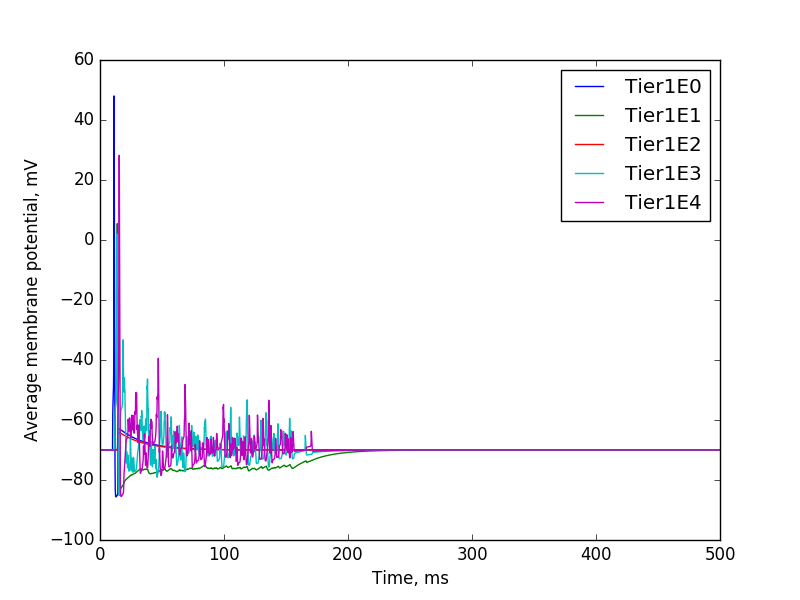
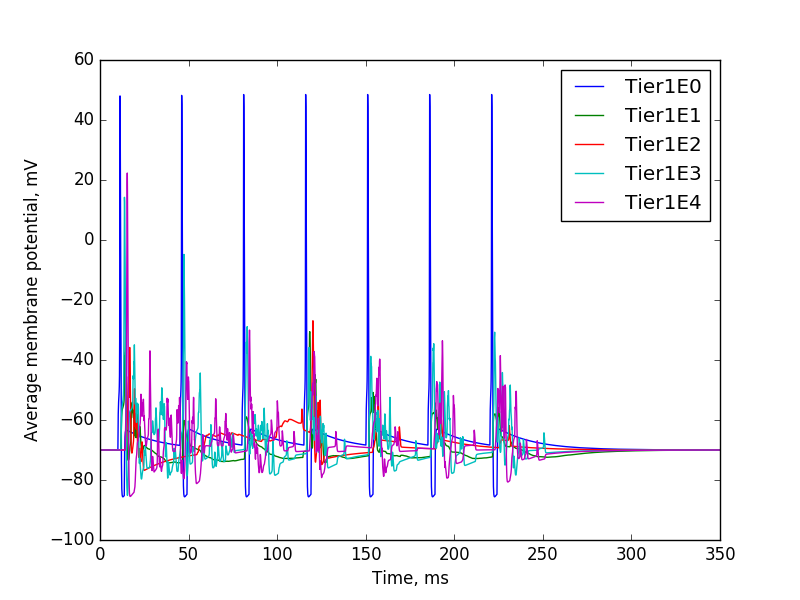
set multilevel response on moto

diff --git a/the_second_level/src/topology.py b/the_second_level/src/topology.py
@@ -48,7 +48,7 @@ class Tier:
             syn_spec={
                 'model': 'static_synapse',
                 'delay': {'distribution': 'normal', 'mu': 0.5, 'sigma': 0.1},
-                'weight': {'distribution': 'normal', 'mu': 50., 'sigma': 5.}},
+                'weight': {'distribution': 'normal', 'mu': 45., 'sigma': 5.}},
             conn_spec={
                 'rule': 'fixed_indegree',
                 'indegree': 5
@@ -60,7 +60,7 @@ class Tier:
             syn_spec={
                 'model': 'static_synapse',
                 'delay': {'distribution': 'normal', 'mu': 0.5, 'sigma': 0.1},
-                'weight': {'distribution': 'normal', 'mu': 20., 'sigma': 4.}},
+                'weight': {'distribution': 'normal', 'mu': 85., 'sigma': 4.}},
             conn_spec={
                 'rule': 'fixed_indegree',
                 'indegree': 5
@@ -72,9 +72,10 @@ class Tier:
             syn_spec={
                 'model': 'static_synapse',
                 'delay': {'distribution': 'normal', 'mu': 0.5, 'sigma': 0.1},
-                'weight': {'distribution': 'normal', 'mu': 15., 'sigma': 4.}},
+                'weight': {'distribution': 'normal', 'mu': 85., 'sigma': 4.}},
             conn_spec={
-                'rule': 'all_to_all'
+                'rule': 'fixed_indegree',
+                'indegree': 5
             })
         # e0 to e3
         nest.Connect(
@@ -119,9 +120,22 @@ class Tier:
             syn_spec={
                 'model': 'static_synapse',
                 'delay': {'distribution': 'normal', 'mu': 0.5, 'sigma': 0.1},
-                'weight': {'distribution': 'normal', 'mu': -75., 'sigma': 2.}},
+                'weight': {'distribution': 'normal', 'mu': -60., 'sigma': 2.}},
             conn_spec={
-                'rule': 'all_to_all'
+                'rule': 'fixed_indegree',
+                'indegree': 5
+            })
+        # e4 to e1
+        nest.Connect(
+            pre=self.e4,
+            post=self.e1,
+            syn_spec={
+                'model': 'static_synapse',
+                'delay': {'distribution': 'normal', 'mu': 15., 'sigma': 4.},
+                'weight': {'distribution': 'normal', 'mu': -50., 'sigma': 2.}},
+            conn_spec={
+                'rule': 'fixed_indegree',
+                'indegree': 5
             })
 
         # e1 to e0 [relax]
@@ -143,7 +157,7 @@ class Tier:
             syn_spec={
                 'model': 'static_synapse',
                 'delay': 0.5,
-                'weight': 250.
+                'weight': 300.
             },
             conn_spec={
                 'rule': 'one_to_one'
@@ -214,7 +228,7 @@ class Topology:
         self.ees = nest.Create(
             model='spike_generator',
             n=1,
-            params={'spike_times': [10. + i * 25. for i in range(n_spikes)]})
+            params={'spike_times': [10. + i * 35. for i in range(n_spikes)]})
         self.pool = nest.Create(
             model='hh_cond_exp_traub',
             n=20,
@@ -280,6 +294,18 @@ class Topology:
                     'rule': 'fixed_indegree',
                     'indegree': 5
                 })
+            # tier_2 to tier_1 [e2-e2]
+            nest.Connect(
+                pre=self.tiers[tier+1].e2,
+                post=self.tiers[tier].e2,
+                syn_spec={
+                    'model': 'static_synapse',
+                    'delay': {'distribution': 'normal', 'mu': 0.7, 'sigma': 0.1},
+                    'weight': {'distribution': 'normal', 'mu': 35., 'sigma': 2.}},
+                conn_spec={
+                    'rule': 'fixed_indegree',
+                    'indegree': 5
+                })
             # tier_1 to tier_2 [e3-e0]
             nest.Connect(
                 pre=self.tiers[tier].e3,
@@ -300,7 +326,8 @@ class Topology:
                 syn_spec={
                     'model': 'static_synapse',
                     'delay': {'distribution': 'normal', 'mu': 0.7, 'sigma': 0.1},
-                    'weight': {'distribution': 'normal', 'mu': 25., 'sigma': 0.2}},
+                    'weight': {'distribution': 'normal', 'mu': 35., 'sigma': 0.2}},
                 conn_spec={
-                    'rule': 'all_to_all'
+                    'rule': 'fixed_indegree',
+                    'indegree': 5
                 })

diff --git a/the_second_level/bin/run.py b/the_second_level/bin/run.py
@@ -15,7 +15,7 @@ Cleaner.create_structure()
 
 from the_second_level.src.topology import Topology
 topology = Topology(int(sys.argv[1]))
-nest.Simulate(500.)
+nest.Simulate(350.)
 
 from the_second_level.src.tools.plotter import Plotter
 
